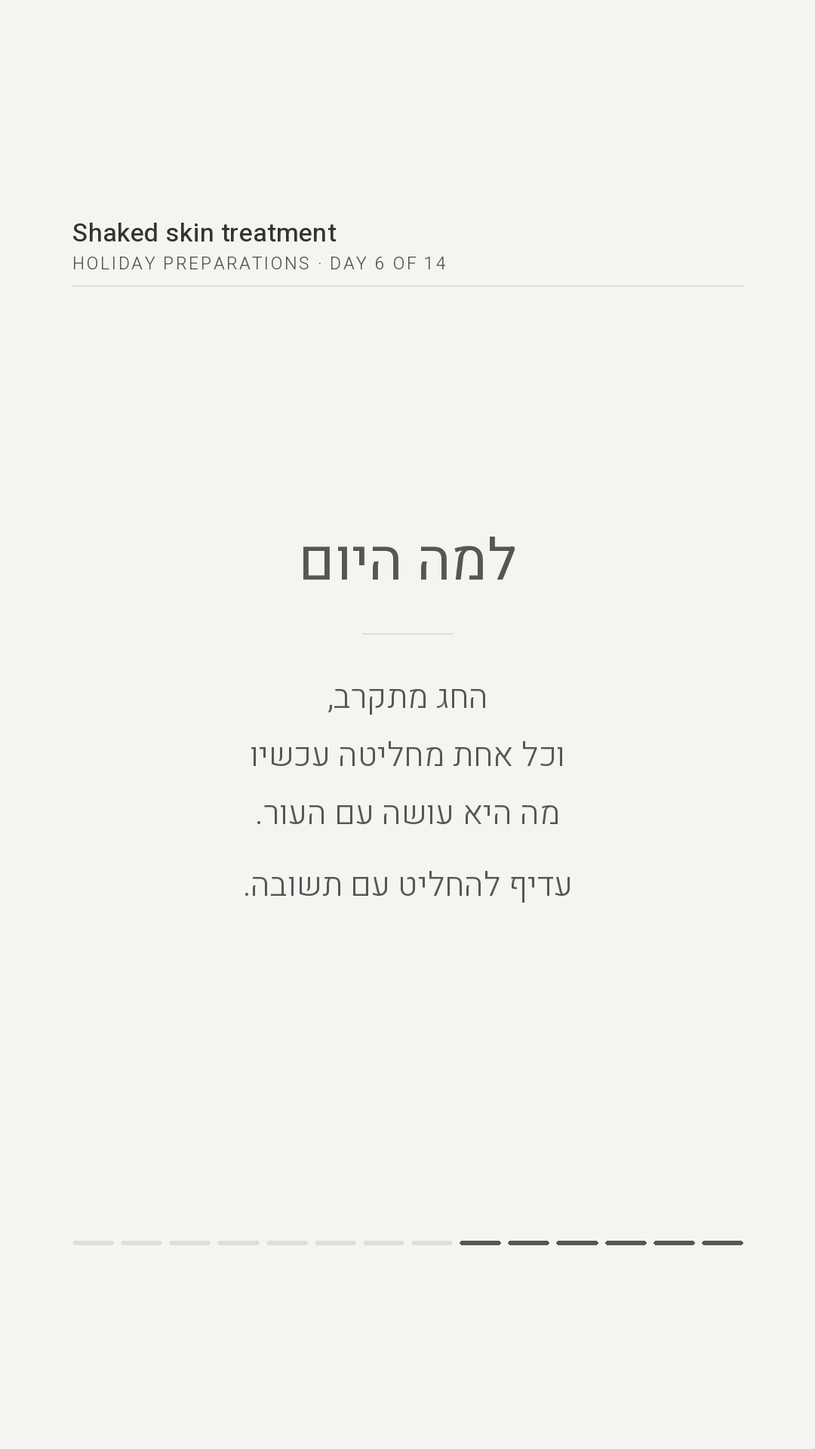
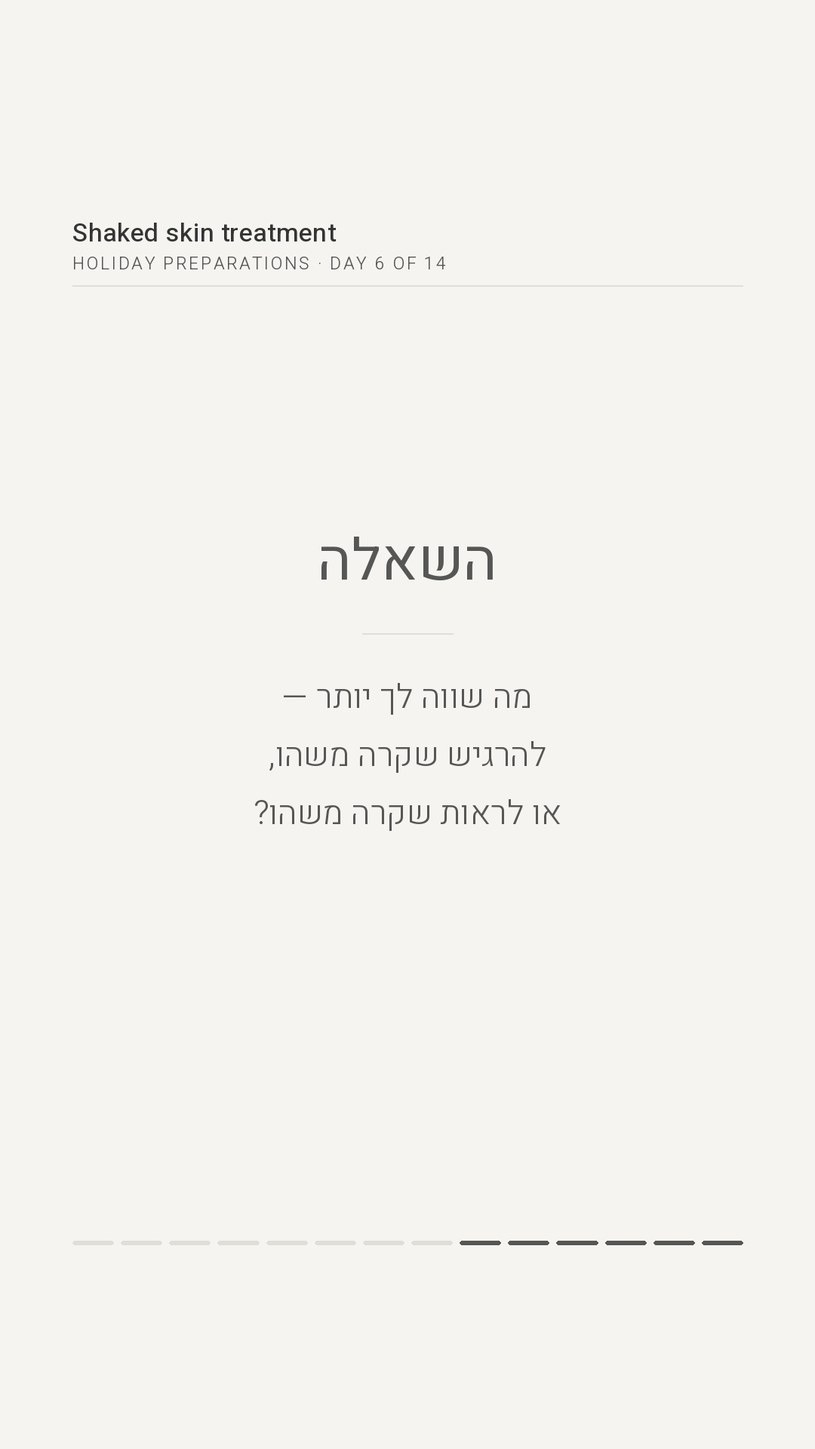
Shaked day 6 — rebuild as a poll, not a question box (95 followers)
The account has ~95 followers. A question box at that size comes back
with two or three answers and reads as ignored, and the closing frame
promised "tomorrow I answer everything" — a promise that breaks in
public in front of the few people who did write. A poll cannot look
ignored: five taps still draw a full bar, and it costs one tap instead
of typing in public.

Day 6 is now the strong-peel myth carried by an opinion poll (feel it /
see it), with the mechanism verbatim from Shaked's own material
(DAHTtayM4q0 p4). The interaction that the question box was providing is
replaced by a specific share prompt, which is the growth lever at this
size — a comment adds a metric, a share adds a follower.

Recorded the follower count in the brand brief as a governing constraint
on format choice, since it rules out every volume-dependent mechanic.

Day 7 ("the answers") is deleted as a unit — it existed only to answer
the question box. That plus the skipped day 5 closes the schedule gap
down to a single remaining merge (8+9); days 10 and 12 no longer need to
be compressed together.

Also: a leading straight quotation mark on a Hebrew line renders on the
left in Canva, same family as the digits-at-line-start rule. Dropped the
quotes and wrote the rule down.

Claude-Session: https://claude.ai/code/session_016gUZM1pTKD3wfdojgBe34A

Changed region(s): [[0.3056, 0.4688, 0.6722, 0.625], [0.3667, 0.375, 0.6417, 0.4062], [0.6722, 0.5938, 0.7028, 0.625]]

diff --git a/content/SHAKED_SKIN/03_MEDIA/build/stories.py b/content/SHAKED_SKIN/03_MEDIA/build/stories.py
@@ -271,55 +271,57 @@ DAYS[4] = {
     ("b", "שמרי. מחר — יום חמישי.", NOTE, MUTE)],
 }
 
-# Day 6 — the question day. Frame 4 is deliberately empty below the copy:
-# the Instagram question sticker is placed there at upload time. It is a
-# native IG sticker, not an element, so it cannot live in the file.
+# Day 6 — the strong-peel myth, carried by a poll.
+# Not a question box: the account has ~95 followers, and a question box that
+# comes back with two answers reads as ignored. A poll always looks answered.
+# Frame 2 is deliberately empty below the copy — that is where the poll
+# sticker goes. It is a native IG sticker, not an element.
+# No quotation marks anywhere: a leading straight quote on a Hebrew line
+# renders on the wrong side, same family as the digits rule.
 DAYS[6] = {
-1: [("h", "היום אני לא מלמדת.", HEAD_C, INK, 1.2),
-    ("h", "היום אני שואלת.",  HEAD_C, INK, 1.2)],
+1: [("h", "יש טיפול שמרגישים.", HEAD_C, INK, 1.2),
+    ("h", "ויש טיפול שרואים.",  HEAD_C, INK, 1.2)],
 
-2: [("h", "למה היום", HEAD_I, INK, 0.4),
+2: [("h", "השאלה", HEAD_I, INK, 0.4),
     ("gap", 34),
     ("rule", 34, 120),
     ("gap", 30),
-    ("b", "החג מתקרב,", BODY, INK),
-    ("b", "וכל אחת מחליטה עכשיו", BODY, INK),
-    ("b", "מה היא עושה עם העור.", BODY, INK),
-    ("gap", 18),
-    ("b", "עדיף להחליט עם תשובה.", BODY, INK)],
+    ("b", "מה שווה לך יותר —", BODY, INK),
+    ("b", "להרגיש שקרה משהו,", BODY, INK),
+    ("b", "או לראות שקרה משהו?", BODY, INK)],
 
-3: [("h", "אין שאלה קטנה", HEAD_I, INK, 0.4),
+3: [("h", "המיתוס", HEAD_I, INK, 0.4),
     ("gap", 34),
     ("rule", 34, 120),
     ("gap", 30),
-    ("b", "פצעון אחד שחוזר.", BODY, INK),
-    ("b", "כתם שלא יורד.", BODY, INK),
-    ("b", "משהו שמביך לשאול בקול.", BODY, INK),
+    ("b", "ככל שהפילינג חזק יותר,", BODY, INK),
+    ("b", "כך התוצאה טובה יותר.", BODY, INK),
     ("gap", 18),
-    ("b", "הכול נחשב.", BODY, INK)],
+    ("b", "זה לא נכון.", BODY, INK)],
 
-4: [("h", "השאלה", HEAD_I, INK, 0.4),
+4: [("h", "למה", HEAD_I, INK, 0.4),
     ("gap", 34),
     ("rule", 34, 120),
     ("gap", 30),
-    ("b", "מה הכי מטריד אותך", BODY, INK),
-    ("b", "בעור עכשיו?", BODY, INK),
+    ("b", "עור אדום וקלוף הוא לא", BODY, INK),
+    ("b", "סימן שזה עבד.", BODY, INK),
     ("gap", 18),
-    ("b", "חוץ ממני אף אחד", BODY, INK),
-    ("b", "לא רואה מי שאלה.", BODY, INK)],
+    ("b", "זה סימן שמחסום העור נפגע —", BODY, INK),
+    ("b", "והוא זה שאחראי על הזוהר.", BODY, INK)],
 
 5: [("h", "יום שישי", HEAD_I, INK, 0.4),
     ("gap", 34),
     ("rule", 34, 120),
     ("gap", 30),
-    ("b", "היום אין כלל.", SUM, INK),
-    ("b", "יש שאלה.",       SUM, INK),
+    ("b", "עוצמה היא לא תוצאה.",           SUM, INK),
+    ("b", "אדמומיות היא נזק, לא הוכחה.",  SUM, INK),
     ("gap", 18),
-    ("b", "כתבי לי בתיבה.", SUM, INK),
+    ("b", "שלחי את זה למי שמתכננת",       SUM, INK),
+    ("b", "פילינג לפני החג.",             SUM, INK),
     ("gap", 44),
     ("rule", 34, 120),
     ("gap", 20),
-    ("b", "מחר — יום שביעי, אני עונה על הכול.", NOTE, MUTE)],
+    ("b", "מחר — יום שביעי.", NOTE, MUTE)],
 }
 
 if __name__ == "__main__":

diff --git a/content/SHAKED_SKIN/05_CALENDAR/SERIES_מתכוננים-לחגים-14-יום.md b/content/SHAKED_SKIN/05_CALENDAR/SERIES_מתכוננים-לחגים-14-יום.md
@@ -117,43 +117,52 @@ HOLIDAY PREPARATIONS · DAY 1 OF 14
 **אין כאן מספר טיפולים ואין הבטחת תוצאה** — הפריימים מדברים על טווחי זמן ביולוגיים
 בלבד, לא על מה שטיפול מסוים ישיג.
 
-## יום 6 — תיבת השאלות ✅ בנוי
+## יום 6 — פילינג חזק יותר ✅ בנוי
 
 **Canva:** https://www.canva.com/design/DAHUaeozTMw/edit — `DAHUaeozTMw` · 5 עמודים · 1080×1920
 **קבצים מקומיים:** `content/SHAKED_SKIN/03_MEDIA/DAY06/shaked-day06-01..05.png`
 
-נבנה בשכפול של יום 4, בדיוק כמו שיום 4 נבנה בשכפול של יום 3 — אותה טיפוגרפיה,
-אותם מיקומים, רק המילים והמספר בכיתוב התחלפו. **יום 5 לא נבנה ודולג.**
-
 | פריים | תוכן |
 |---|---|
-| 1 | היום אני לא מלמדת. היום אני שואלת. |
-| 2 | **למה היום** — החג מתקרב, וכל אחת מחליטה עכשיו מה היא עושה עם העור. עדיף להחליט עם תשובה. |
-| 3 | **אין שאלה קטנה** — פצעון אחד שחוזר. כתם שלא יורד. משהו שמביך לשאול בקול. הכול נחשב. |
-| 4 | **השאלה** — מה הכי מטריד אותך בעור עכשיו? + חוץ ממני אף אחד לא רואה מי שאלה. |
-| 5 | **יום שישי** — היום אין כלל. יש שאלה. כתבי לי בתיבה. מחר — יום שביעי, אני עונה על הכול. |
+| 1 | יש טיפול שמרגישים. ויש טיפול שרואים. |
+| 2 | **השאלה** — מה שווה לך יותר: להרגיש שקרה משהו, או לראות שקרה משהו? ← **סקר** |
+| 3 | **המיתוס** — ככל שהפילינג חזק יותר, כך התוצאה טובה יותר. זה לא נכון. |
+| 4 | **למה** — עור אדום וקלוף הוא לא סימן שזה עבד. זה סימן שמחסום העור נפגע — והוא זה שאחראי על הזוהר. |
+| 5 | **יום שישי** — עוצמה היא לא תוצאה. אדמומיות היא נזק, לא הוכחה. + שלחי את זה למי שמתכננת פילינג לפני החג. |
 
-**מה צריך לעשות בהעלאה — פריים 4.** מניחים עליו את **סטיקר השאלות של אינסטגרם**
-בחצי התחתון, שנשאר ריק בדיוק בשביל זה. הכיתוב על הסטיקר: **"כתבי לי כאן"** —
-לא לחזור על השאלה, היא כבר מודפסת מעליו בגדול. הסטיקר הוא סטיקר נייטיב ולא אלמנט,
-ולכן אי אפשר להכניס אותו לקובץ הקאנבה.
+**בהעלאה — פריים 2:** מניחים **סקר** בחצי התחתון, שנשאר ריק בדיוק בשביל זה.
+שתי האפשרויות: **להרגיש · לראות**. אין תשובה נכונה — זה סקר דעה, לא חידון, ולכן
+אף אחת לא מהססת לענות.
 
-**למה זה היום היחיד בסדרה שהוא שאלה ולא תשובה.** חמישה ימים ברצף של הוראה בונים
-סמכות אבל גם פסיביות. תיבת שאלות באמצע הופכת את מי שצפה למי שכתב, וזה מה שמזין את
-יום 7 — שהוא כולו תשובות **שלהן**, לא שאלות שהמצאנו. בלי יום 6 יום 7 הוא עוד יום
-של תוכן; אחריו הוא שיחה.
+### למה זה סקר ולא תיבת שאלות
 
-**הניסוח של ההבטחה מדויק ולא מבטיח יותר ממה שאינסטגרם עושה.** בסטיקר השאלות
-**התשובות אנונימיות לצופים האחרים — אבל לא לך.** את רואה מי שאל. לכן הפריים אומר
-"חוץ ממני אף אחד לא רואה מי שאלה" ולא "אף אחד לא רואה מי שאלה". זה ההבדל בין
-הבטחה נכונה להבטחה שתישבר ברגע שתשיבי למישהי בפרטי.
+**לחשבון יש כ-95 עוקבות.** תיבת שאלות בגודל כזה מחזירה שתיים־שלוש שאלות במקרה
+הטוב, ופריים שמבטיח "מחר אני עונה על הכול" נשבר בפומבי מול מי שכן כתבה. **סקר לא
+יכול להיראות מתעלמים ממנו** — גם חמש נקישות מציירות בר מלא — והוא עולה נקישה אחת
+במקום הקלדה בפומבי. זה המנגנון הנכון בקנה מידה הזה.
 
-**מה עושים עם התשובות.** כל שאלה שנכנסת היא גם חומר גלם ליום 7 וגם ליד. שאלה
-שדורשת אבחון — עונים עליה בפרטי ולא בפריים. שאלה חוזרת אצל כמה נשים — היא הפריים
-המרכזי של יום 7.
+התיבה תחזור כשיהיה קהל שמצדיק אותה. הרעיון והקופי שמורים בגיבוי הקאנבה.
 
-**אין כאן מחיר ואין הבטחת תוצאה.** הפריימים לא מזכירים טיפול מסוים, ולכן גם לא
-נוגעים ברשימת ההתוויות החסרה.
+### מה מחליף את האינטראקציה שאיבדנו
+
+**שיתוף במקום תגובה.** "שלחי את זה למי שמתכננת פילינג לפני החג" הוא המנוף האמיתי
+ב-95 עוקבות: תגובה מוסיפה מדד, שיתוף מוסיף עוקבת. הבקשה ספציפית בכוונה — לא
+"שתפי", אלא בדיוק למי.
+
+**וזה לא מבקש מאף אחת להיחשף.** תיבת שאלות דורשת להודות בפומבי במשהו בעור; שיתוף
+בפרטי לחברה לא דורש כלום.
+
+### הבסיס העובדתי
+
+שני המשפטים בפריימים 3 ו-4 הם **מילה במילה מהחומר של שקד עצמה** —
+`DAHTtayM4q0` עמוד 4. לא המצאתי טענה קלינית, ואין כאן שם של טיפול ספציפי, מחיר,
+או הבטחת תוצאה.
+
+### מה זה עשה ליום 7
+
+יום 7 היה "התשובות" — הוא היה תלוי לגמרי בתיבה. **הוא נמחק כיחידה.** הפריים האחרון
+של יום 6 אומר רק "מחר — יום שביעי", בלי להבטיח תשובות. מה שיירד מחר הוא היחידה
+הבאה בתור, לא תשובות לשאלות שלא נשאלו.
 
 ## הפקת הקבצים — `03_MEDIA/build/stories.py`
 
@@ -191,72 +200,64 @@ cd content/SHAKED_SKIN/03_MEDIA/build && python3 stories.py
 | 3 | 1.9 | הסדר הנכון — באיזה סדר מורחים | ✅ בנוי |
 | 4 | 2.9 | כמה זמן באמת לוקח — ציר הזמן | ✅ בנוי |
 | 5 | — | ניקוי עור: מה זה כן ומה זה לא | ⏭ דולג |
-| 6 | 6.9 | תיבת שאלות | ✅ בנוי |
-| 7 | 7.9 | התשובות | לכתוב — **חייב לרדת יום אחרי 6** |
-| 8+9 | 8.9 | שגרת בוקר וערב — מאוחד | לכתוב |
-| 10+12 | 9.9 | לפני אירוע — מה לא לעשות ומתי כבר מאוחר | `דורש עובדות ממך` |
-| 11 | 10.9 | איפור על עור מטופל | לכתוב |
+| 6 | 6.9 | פילינג חזק יותר — מיתוס + סקר | ✅ בנוי |
+| 7 | — | התשובות | ❌ נמחק — היה תלוי בתיבת השאלות |
+| 8+9 | 7.9 | שגרת בוקר וערב — מאוחד | לכתוב |
+| 10 | 8.9 | מה **לא** לעשות בשבוע שלפני אירוע | `דורש עובדות ממך` |
+| 11 | 9.9 | איפור על עור מטופל | לכתוב |
+| 12 | 10.9 | הטיפול האחרון לפני החג — מתי כבר מאוחר | `דורש עובדות ממך` |
 | 13 | 11.9 | ערב החג — פריים רגוע, בלי CTA | לכתוב · **נעול לתאריך** |
 | 14 | 12.9 | סיכום הסדרה + שנה טובה | לכתוב · **נעול לתאריך** |
 
 ## ⚠ ההסחה — החשבון המעודכן ל-06.09
 
-הסדרה תוכננה יום ליום מ-30.8. **היום 6.9, ואנחנו מעלים את יום 6.** כלומר יומיים
-מאחור — יום 5 דולג, וזה כבר סגר יום אחד מהפער.
-
-זה היה משנה רק בגלל ששני הימים האחרונים **נעולים לתאריך**: יום 13 הוא ערב ראש
-השנה (11.9) ויום 14 הוא החג עצמו (12.9). מכאן החשבון פשוט:
+יום 5 דולג ויום 7 נמחק (הוא היה תלוי בתיבת השאלות). זה סגר כמעט את כל הפער:
 
 | | |
 |---|---|
 | משבצות שנשארו | 6.9 → 12.9 = **שבע** |
 | מתוכן נעולות | 11.9 ליום 13, 12.9 ליום 14 |
-| משבצות פנויות | 6.9, 7.9, 8.9, 9.9, 10.9 = **חמש** |
-| יחידות שנשארו | 6, 7, 8, 9, 10, 11, 12 = **שבע** |
+| משבצות פנויות אחרי היום | 7.9, 8.9, 9.9, 10.9 = **ארבע** |
+| יחידות שנשארו | 8, 9, 10, 11, 12 = **חמש** |
 
-**שבע יחידות בחמש משבצות — צריך לחתוך שתיים.** ההמלצה:
+**חמש יחידות בארבע משבצות — נשאר איחוד אחד בלבד: 8+9.** הם "שגרת בוקר בשלושה
+שלבים" ו"שגרת ערב בשלושה שלבים", וזה בדיוק מה שיום 3 כבר עשה בשני פריימים, טוב
+יותר. האיחוד מוריד חזרה מהסדרה ולא רק מקצר אותה.
 
 | תאריך | יחידה |
 |---|---|
-| 6.9 | יום 6 — תיבת שאלות ✅ מוכן |
-| 7.9 | יום 7 — התשובות |
-| 8.9 | **8+9 מאוחדים** — שגרת בוקר וערב |
-| 9.9 | **10+12 מאוחדים** — לפני אירוע: מה לא לעשות ומתי כבר מאוחר |
-| 10.9 | יום 11 — איפור על עור מטופל |
+| 6.9 | יום 6 — פילינג חזק יותר ✅ מוכן |
+| 7.9 | **8+9 מאוחדים** — שגרת בוקר וערב |
+| 8.9 | יום 10 — מה לא לעשות בשבוע שלפני אירוע |
+| 9.9 | יום 11 — איפור על עור מטופל |
+| 10.9 | יום 12 — הטיפול האחרון לפני החג |
 | 11.9 | יום 13 — ערב החג |
 | 12.9 | יום 14 — סיכום ושנה טובה |
 
-**למה דווקא שני האיחודים האלה.**
-ימים 8 ו-9 הם "שגרת בוקר בשלושה שלבים" ו"שגרת ערב בשלושה שלבים" — וזה בדיוק מה
-שיום 3 כבר עשה, בשני פריימים, טוב יותר. איחודם מוריד חזרה מהסדרה ולא רק מקצר אותה.
-ימים 10 ו-12 הם שניהם "תזמון לפני אירוע" מזוויות שונות, ושניהם חסומים על אותה
-רשימת עובדות שחסרה. איחודם הופך שתי יחידות חסומות לאחת.
+**ימים 10 ו-12 נשארים נפרדים** — קודם המלצתי לאחד גם אותם, וזה כבר לא נדרש. טוב
+שכך: שניהם חסומים על אותה רשימת עובדות שחסרה, ודחיסתם לאחד הייתה מקצצת את שניהם.
 
-**יום 6 ויום 7 חייבים להישאר צמודים.** הפריים אומר "מחר אני עונה על הכול". אם יום
-7 נדחה, ההבטחה נשברת מול מי שכתבה — וזו בדיוק הקבוצה שהכי שווה לשמור.
+### ותוצאת לוואי אחת שצריך להחליט עליה — המספר בכיתוב
 
-### ותוצאת לוואי אחת שצריך להחליט עליה יחד עם זה — המספר בכיתוב
+הכיתוב מספר **DAY n OF 14** והמונה מתמלא לפיו. אחרי הדילוג, המחיקה והאיחוד,
+המספרים שיודפסו מכאן ועד החג הם 6, 8, 10, 11, 12, 13, 14 — **עם חורים גלויים**.
+זה בדיוק מבטל את מה שהמונה נועד לעשות: להראות מה פספסת.
 
-הכיתוב מספר **DAY n OF 14** והמונה מתמלא לפיו. אם מאחדים, המספרים שיודפסו מכאן
-ועד החג הם 6, 7, 8, 10, 11, 13, 14 — **עם חורים גלויים**. זה בדיוק מבטל את מה
-שהמונה נועד לעשות: להראות מה פספסת. שתי דרכים לסגור:
+**ההמלצה: להעביר את המונה לספירה לאחור לחג.** 30.8 הוא יום 1, ולכן היום 6.9 הוא
+**יום 8 מתוך 14**, ומכאן הרצף מושלם בלי חורים — 8, 9, 10, 11, 12, 13, 14 — והיום
+האחרון נוחת על 12.9 בדיוק כ-14 מתוך 14. זו האפשרות היחידה שמסתיימת מדויק על החג
+בלי לכפול פוסטים ובלי לגעת במכנה שכבר פורסם.
 
-- **להעביר את המונה לספירה לאחור לחג** — 30.8 הוא יום 1, ולכן היום 6.9 הוא **יום 8
-  מתוך 14**, והיום האחרון נוחת על 12.9 בדיוק כ-14 מתוך 14. זו האפשרות היחידה
-  שמסתיימת מדויק על החג בלי לכפול פוסטים ובלי לגעת במכנה. המחיר: הקובץ של היום
-  צריך להיקרא יום 8 ולא יום 6, והאורדינל בפריים 5 משתנה בהתאם.
-- **להשאיר מספור יחידות ולהוריד את המכנה ל-12** — פחות נכון, כי המכנה כבר פורסם
-  כ-14 בימים 1–4.
-
-**ההמלצה: ספירה לאחור לחג.** זה שינוי של שני ערכים — הכיתוב בקאנבה
-(`DAY 6 OF 14` → `DAY 8 OF 14`, חמישה עמודים) וארגומנט אחד בסקריפט. לא בניתי אותו
-כי ביקשת יום 6, וזו החלטה על כל הסדרה ולא על יחידה אחת.
-
-`דורש החלטה שלך.` אם את מעדיפה לא לאחד — החלופה היחידה היא שני מקבצי סטוריז באותו
-יום, וזה שובר את ההרגל שהסדרה בנויה עליו: אותה שעה, כל יום.
+המחיר: הקובץ של היום צריך להיקרא יום 8 ולא יום 6, והאורדינל בפריים 5 משתנה
+מ"יום שישי" ל"יום שמיני". זה שינוי של שני ערכים — כיתוב אחד בקאנבה על חמישה
+עמודים, וארגומנט אחד בסקריפט. `דורש החלטה שלך.`
 
 **ימים 10 ו-12 חסומים:** צריך לדעת כמה זמן לפני אירוע מותר כל טיפול, ומתי כבר מאוחר מדי להתחיל תהליך. זו בדיוק רשימת ההתוויות והתזמונים שחסרה ב-`01_OFFERS/TREATMENTS.md`.
 
 ## כלל טכני לכל הסדרה
+
+**אין מרכאות בתחילת שורה בעברית.** מרכאה ישרה היא תו נייטרלי; בתחילת פסקה בעברית
+מנוע הטקסט של קאנבה מציב אותה בקצה **השמאלי** של השורה במקום בימני. התגלה ביום 6
+בציטוט של המיתוס. הפתרון: לא לצטט במרכאות — הכותרת ("המיתוס") כבר עושה את התפקיד.
 
 **אין ספרות בתחילת שורה בעברית.** מנוע הטקסט של קאנבה הופך את סדר הספרות בשורה מעורבת — "3 פעולות" נהפך ל-"פעולות 3". לכן מספרים בגוף הטקסט נכתבים במילים ("שלוש", "יום ראשון"), והספרות נשמרות לכותרות עצמאיות בלבד (01 / 02 / 03), שם אין ערבוב.

diff --git a/content/SHAKED_SKIN/05_CALENDAR/CANVA_ARCHIVE.md b/content/SHAKED_SKIN/05_CALENDAR/CANVA_ARCHIVE.md
@@ -103,15 +103,24 @@ https://www.canva.com/design/DAHTtayM4q0/edit
 
 | עמוד | תוכן |
 |---|---|
-| 1 | היום אני לא מלמדת. · היום אני שואלת. |
-| 2 | **למה היום** · החג מתקרב, · וכל אחת מחליטה עכשיו · מה היא עושה עם העור. · עדיף להחליט עם תשובה. |
-| 3 | **אין שאלה קטנה** · פצעון אחד שחוזר. · כתם שלא יורד. · משהו שמביך לשאול בקול. · הכול נחשב. |
-| 4 | **השאלה** · מה הכי מטריד אותך · בעור עכשיו? · חוץ ממני אף אחד · לא רואה מי שאלה. |
-| 5 | **יום שישי** · היום אין כלל. · יש שאלה. · כתבי לי בתיבה. · מחר — יום שביעי, אני עונה על הכול. |
+| 1 | יש טיפול שמרגישים. · ויש טיפול שרואים. |
+| 2 | **השאלה** · מה שווה לך יותר — · להרגיש שקרה משהו, · או לראות שקרה משהו? |
+| 3 | **המיתוס** · ככל שהפילינג חזק יותר, · כך התוצאה טובה יותר. · זה לא נכון. |
+| 4 | **למה** · עור אדום וקלוף הוא לא · סימן שזה עבד. · זה סימן שמחסום העור נפגע — · והוא זה שאחראי על הזוהר. |
+| 5 | **יום שישי** · עוצמה היא לא תוצאה. · אדמומיות היא נזק, לא הוכחה. · שלחי את זה למי שמתכננת · פילינג לפני החג. · מחר — יום שביעי. |
 
-**עמוד 4 ריק בחצי התחתון בכוונה** — שם מונח סטיקר השאלות של אינסטגרם. הוא סטיקר
-נייטיב, לא אלמנט, ולכן לא יכול לשבת בקובץ. אם ממלאים את החלל הזה בטקסט, אין איפה
-להניח אותו.
+**עמוד 2 ריק בחצי התחתון בכוונה** — שם מונח **הסקר** (להרגיש · לראות). סטיקר
+נייטיב, לא אלמנט, ולכן לא יכול לשבת בקובץ.
+
+**גרסה קודמת של יום 6 — תיבת שאלות — נדחתה ולא פורסמה.** הסיבה: לחשבון כ-95
+עוקבות, ותיבה שחוזרת עם שתי שאלות נראית כאילו התעלמו ממנה. הקופי שמור כאן למקרה
+שהתיבה תחזור כשיהיה קהל שמצדיק אותה:
+
+> **1** היום אני לא מלמדת. · היום אני שואלת.
+> **2 למה היום** · החג מתקרב, וכל אחת מחליטה עכשיו מה היא עושה עם העור. · עדיף להחליט עם תשובה.
+> **3 אין שאלה קטנה** · פצעון אחד שחוזר. · כתם שלא יורד. · משהו שמביך לשאול בקול. · הכול נחשב.
+> **4 השאלה** · מה הכי מטריד אותך בעור עכשיו? · חוץ ממני אף אחד לא רואה מי שאלה.
+> **5 יום שישי** · היום אין כלל. יש שאלה. · כתבי לי בתיבה. · מחר — יום שביעי, אני עונה על הכול.
 
 ### חומר גלם לימים 4–7 — `DAHTtayM4q0`
 

diff --git a/content/SHAKED_SKIN/00_BRAND/BRAND_BRIEF.md b/content/SHAKED_SKIN/00_BRAND/BRAND_BRIEF.md
@@ -61,6 +61,11 @@
 
 ## 4. קהל
 
+- **גודל הקהל באינסטגרם: כ-95 עוקבות (נמסר על ידי רומי, 06.09.2026).** זו לא טריוויה — היא קובעת אילו פורמטים מותרים:
+  - **סקרים, כן. תיבות שאלות, לא.** סקר עם חמש נקישות נראה מלא; תיבת שאלות עם שתי שאלות נראית כאילו התעלמו ממנה. אותו דבר לגבי כל פורמט שנשען על נפח — "תייגי שלוש חברות", ספירת תגובות, מונה צפיות.
+  - **המנוף לצמיחה הוא שיתוף, לא תגובה.** תגובה מוסיפה מדד; שיתוף מוסיף עוקבת. בקשת שיתוף תמיד ספציפית ("שלחי למי ש...") ולא כללית.
+  - **המנוף להכנסה הוא פרטי, לא פומבי.** הודעה אחת מתוך 95 היא ליד; אחוז מעורבות מ-95 הוא רעש. אין למדוד יחידה לפי תגובות.
+  - **אין להבטיח בפריים משהו שתלוי בתגובת הקהל** ("מחר אני עונה על כל השאלות") — הבטחה כזו נשברת בפומבי אם לא הגיעו מספיק פניות.
 - קהל ליבה: נשים בגילי 20–45 מאזור תל אביב, המתמודדות עם אקנה, מרקם לא אחיד, פיגמנטציה, רגישות או חוסר לחות; קונות מוצרי טיפוח אך לא תמיד רואות תוצאות עקביות; מחפשות אבחון מקצועי, התאמה אישית ותהליך מסודר בלי מכירה אגרסיבית.
 - קהל משני: נערות באישור הורים; נשים המתכוננות לאירוע; לקוחות המעוניינות בתחזוקת עור בריא לאורך זמן.
 - 3 ההתנגדויות הכי נפוצות לפני קנייה — `PROPOSED, לאמת מול ה-DM`:
